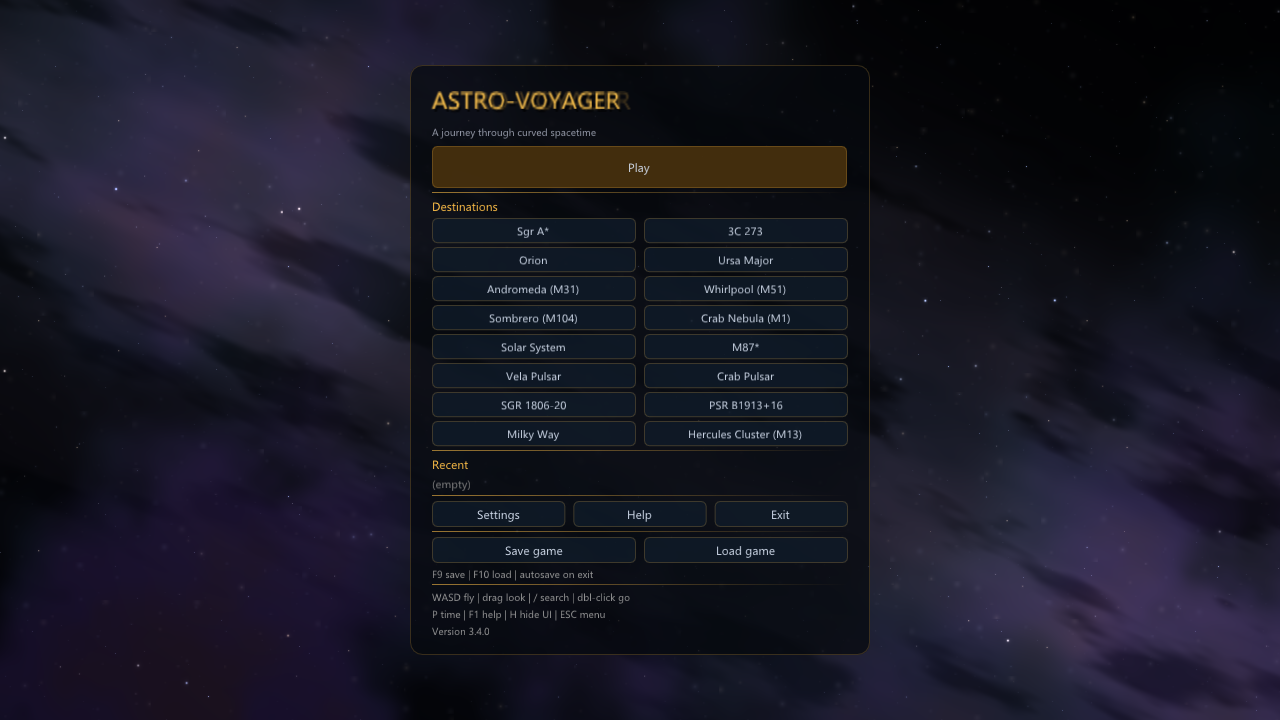
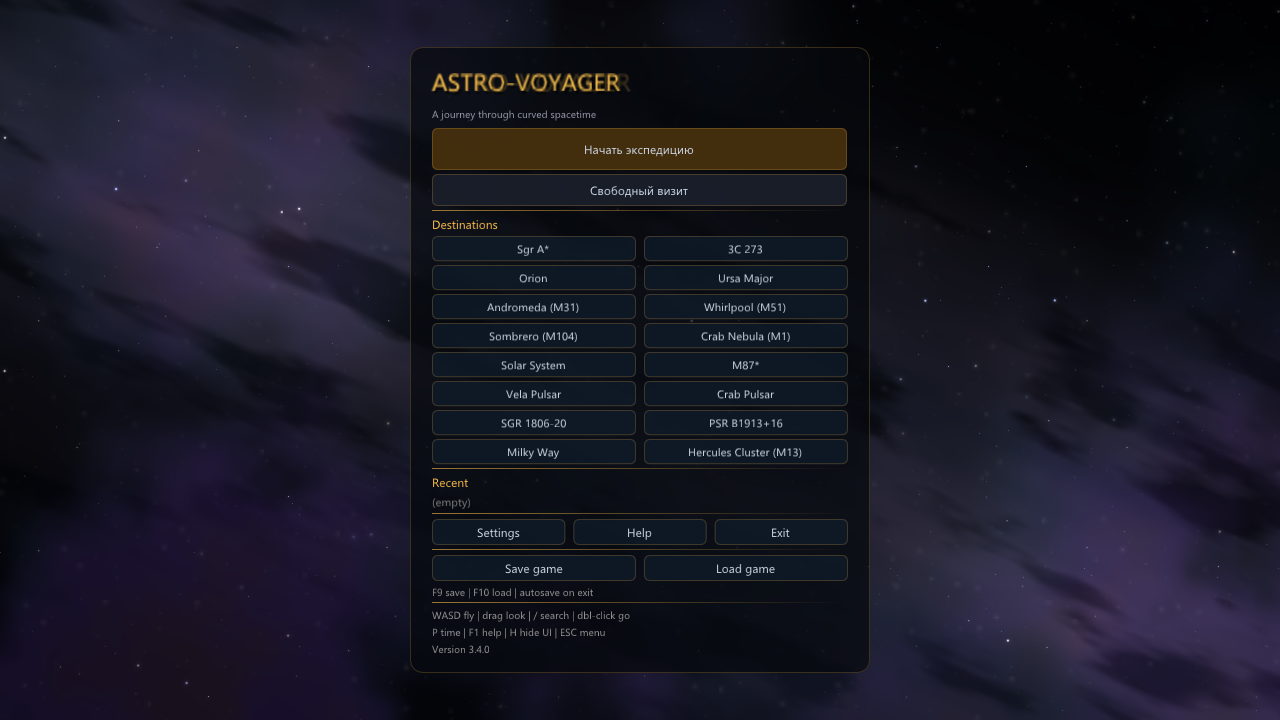
feat(ui): begin-expedition / free-visit menu buttons (bilingual)

diff --git a/src/AppGL.cpp b/src/AppGL.cpp
@@ -2907,10 +2907,11 @@ void AppGL::drawMenu() {
     ImGui::PushStyleColor(ImGuiCol_Button, ImVec4(0.28f, 0.19f, 0.05f, 0.92f));
     ImGui::PushStyleColor(ImGuiCol_ButtonHovered, ImVec4(0.42f, 0.29f, 0.08f, 1.00f));
     ImGui::PushStyleColor(ImGuiCol_ButtonActive, ImVec4(0.50f, 0.34f, 0.09f, 1.00f));
-    if (ImGui::Button("Play", ImVec2(-1.0f, 42.0f))) {
-      // === Expedition === (v3.5.0): Play = сюжетная экспедиция. Первый
-      // запуск — вводные слайды (человек на Земле → решение улететь), затем
-      // высадка в Солнечной системе; повторные — сразу полёт.
+    if (ImGui::Button(uiRu("Начать экспедицию", "Begin Expedition"),
+                      ImVec2(-1.0f, 42.0f))) {
+      // === Expedition === (v3.5.0): сюжетный режим. Первый запуск — вводные
+      // слайды (человек на Земле → решение улететь), затем высадка в
+      // Солнечной системе; повторные — сразу полёт.
       if (!m_expedition.introSeen && m_expedition.chapterIndex == 0) {
         startExpeditionIntro();
       } else {
@@ -2920,6 +2921,19 @@ void AppGL::drawMenu() {
     if (ImGui::IsItemHovered()) {
       ImGui::SetTooltip(m_expedition.introSeen ? "Resume your journey"
                                                : "Begin the expedition");
+    }
+    ImGui::PopStyleColor(3);
+
+    // === Expedition === (v3.5.0): свободный полёт — без пролога и сюжета.
+    ImGui::PushStyleColor(ImGuiCol_Button, ImVec4(0.10f, 0.12f, 0.17f, 0.90f));
+    ImGui::PushStyleColor(ImGuiCol_ButtonHovered, ImVec4(0.16f, 0.19f, 0.26f, 1.00f));
+    ImGui::PushStyleColor(ImGuiCol_ButtonActive, ImVec4(0.20f, 0.24f, 0.32f, 1.00f));
+    if (ImGui::Button(uiRu("Свободный визит", "Free Visit"),
+                      ImVec2(-1.0f, 32.0f))) {
+      m_inMenu = false;
+    }
+    if (ImGui::IsItemHovered()) {
+      ImGui::SetTooltip("Free flight, no story scenes");
     }
     ImGui::PopStyleColor(3);
 
